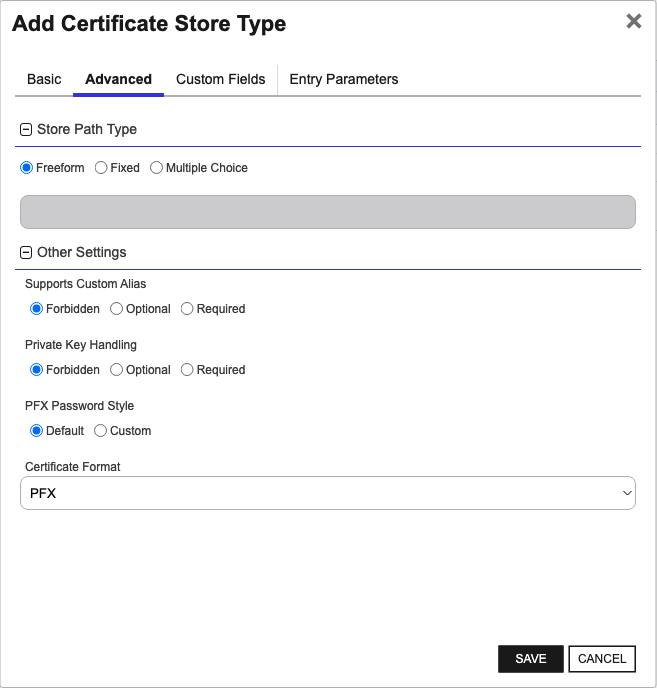
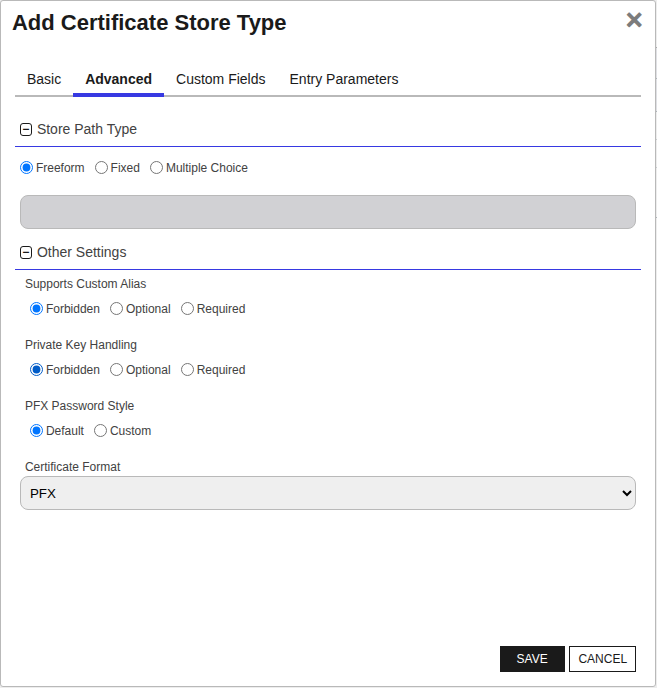
Update generated docs

diff --git a/README.md b/README.md
@@ -75,9 +75,9 @@ The Kubernetes Universal Orchestrator extension implements 7 Certificate Store T
 This integration is compatible with Keyfactor Universal Orchestrator version 12.4 and later.
 
 ## Support
-The Kubernetes Universal Orchestrator extension is community open source and there is **no SLA**. Keyfactor will address issues as resources become available.
+The Kubernetes Universal Orchestrator extension If you have a support issue, please open a support ticket by either contacting your Keyfactor representative or via the Keyfactor Support Portal at https://support.keyfactor.com.
 
-> To report a problem or suggest a new feature, use the **[Issues](../../issues)** tab. If you want to contribute bug fixes or additional enhancements, use the **[Pull requests](../../pulls)** tab.
+> To report a problem or suggest a new feature, use the **[Issues](../../issues)** tab. If you want to contribute actual bug fixes or proposed enhancements, use the **[Pull requests](../../pulls)** tab.
 
 ## Requirements & Prerequisites
 